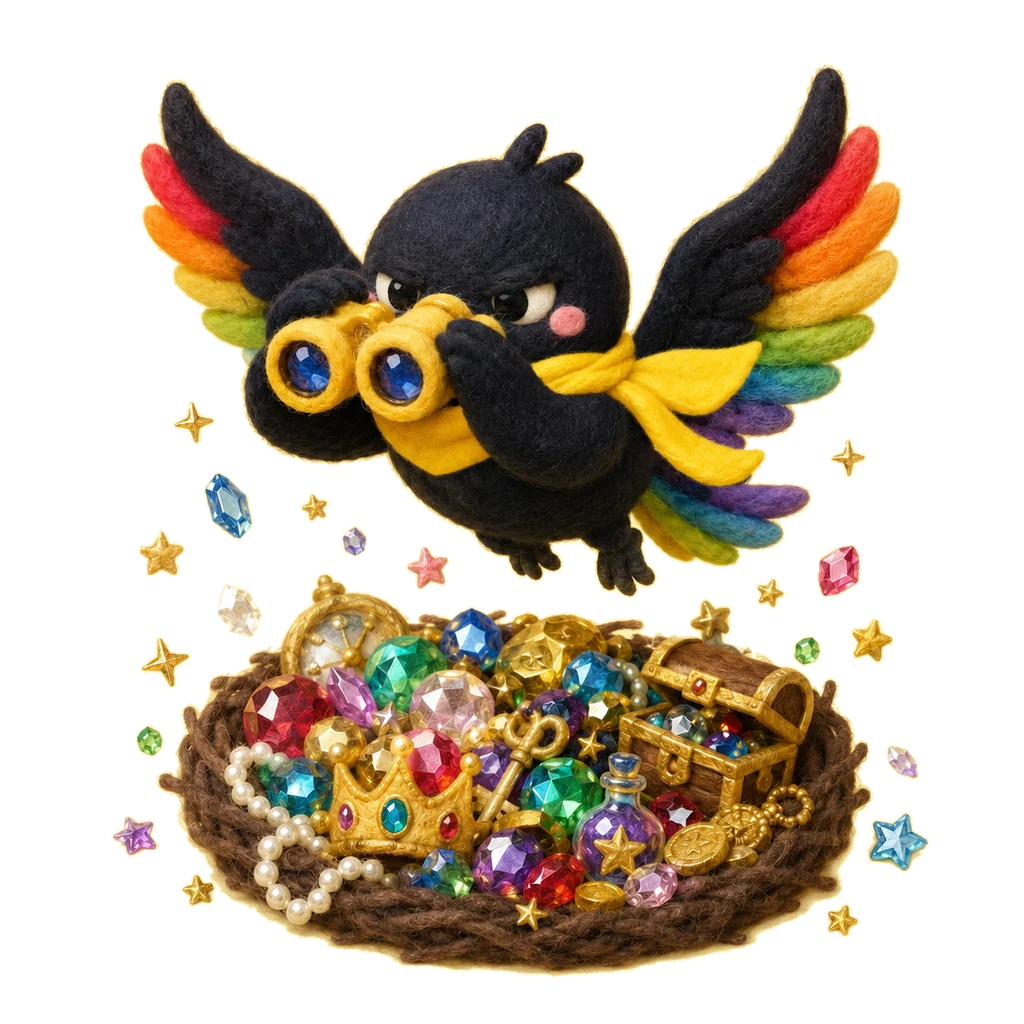
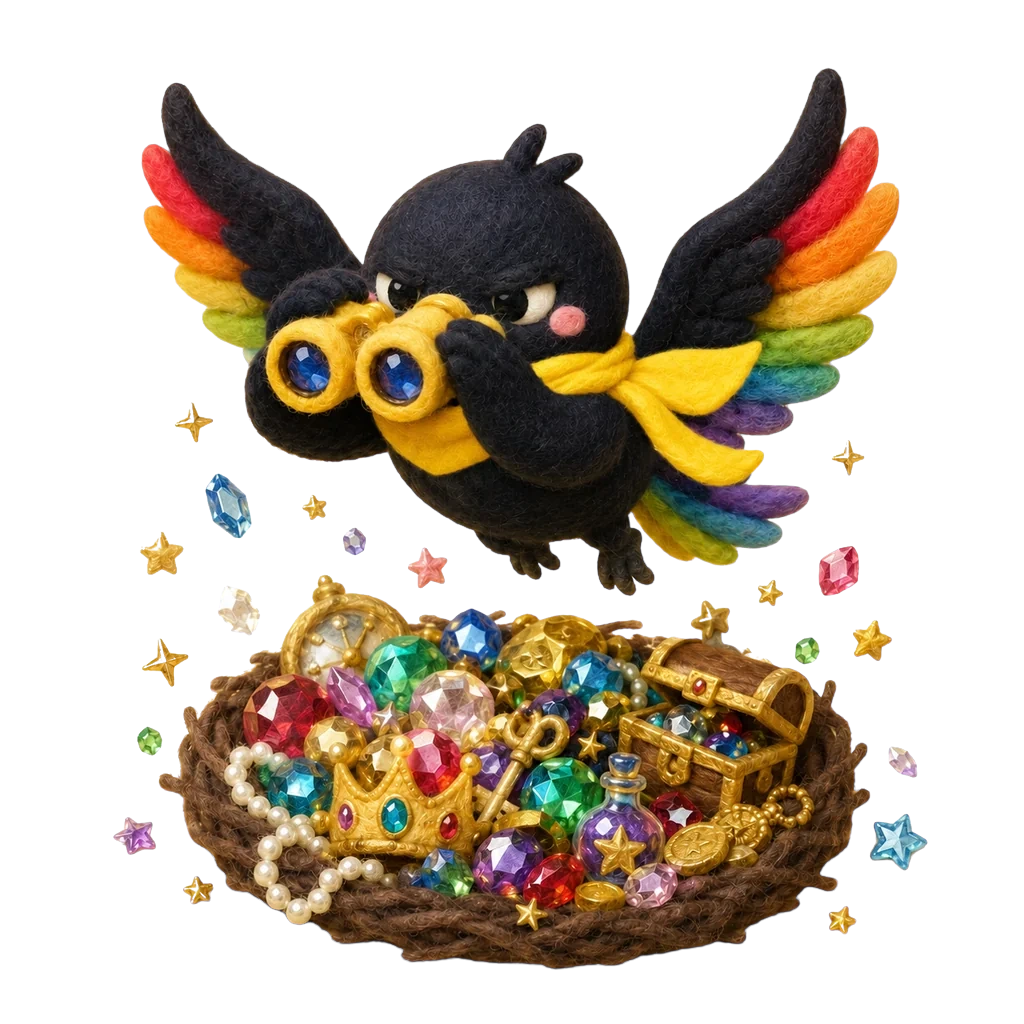
キャラクター23体の透過画像を抜き直す
結果ページの帯の上で、キャラクターのまわりや内側のすき間に元の絵の
背景色が白っぽく残っていたため、背景つきの原画 (public/characters/v3) から
透過版 (public/characters/cut) を作り直した。

- 背景の除去は Canva の背景透過で行い、縁に混ざっていた元の背景色を取り除いた
- 背景透過で消えた小物 (泡・きらめき・小さな星・寝息の zzz など) は戻した
- 足元の影と地面の一部はなくなる
- 新デザインに差し替え済みの9体は対象外 (変更なし)
- 画像の世代番号を 20261122-1 に上げ、上端の余白と先読み一覧を作り直した

diff --git a/src/lib/asset-versions.ts b/src/lib/asset-versions.ts
@@ -1,3 +1,3 @@
 // ファイル名を変えずに差し替える生成済みキャラ素材の世代。
 // next/image の許可リストとURL生成で共有し、更新漏れを防ぐ。
-export const GENERATED_CHARACTER_ASSET_VERSION = "20261118-1";
+export const GENERATED_CHARACTER_ASSET_VERSION = "20261122-1";
